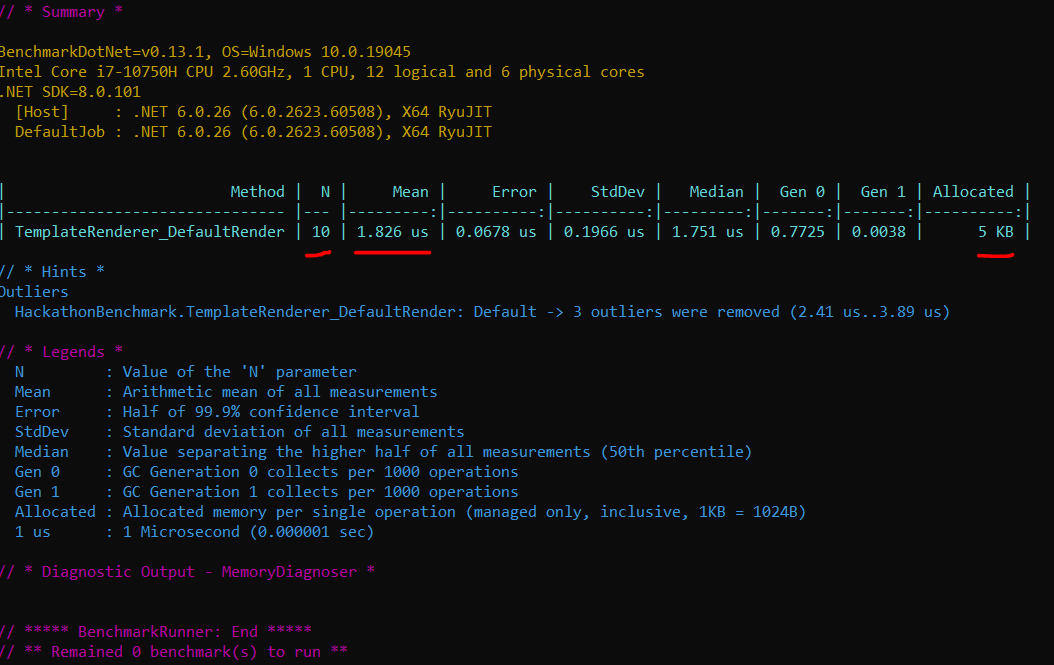
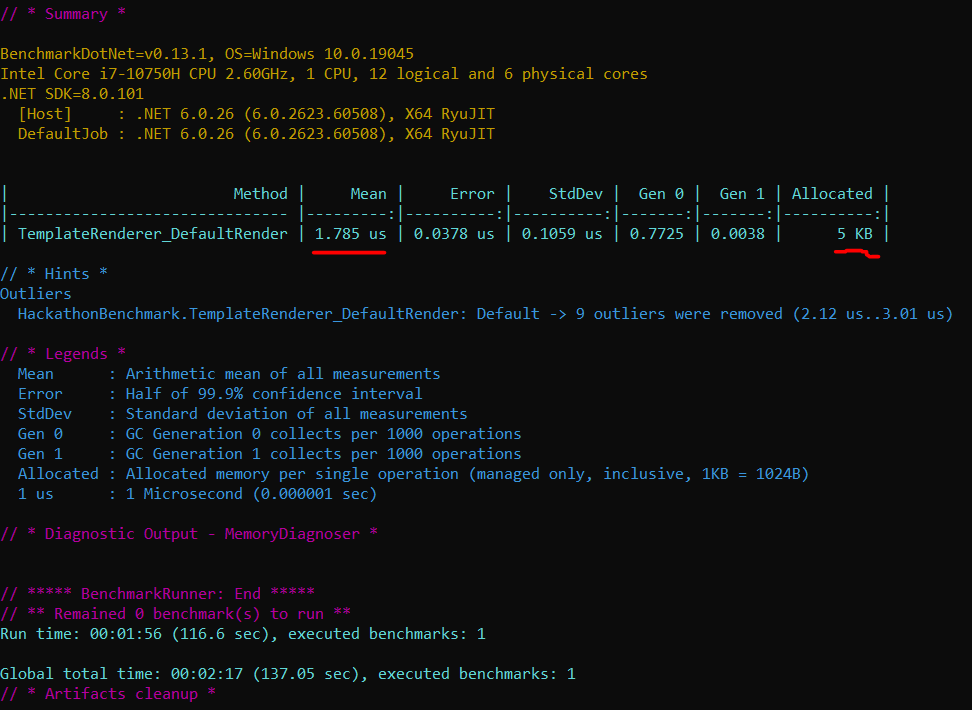
Use correct image and description

diff --git a/Hackathon2024.Benchmark/Program.cs b/Hackathon2024.Benchmark/Program.cs
@@ -18,9 +18,6 @@ namespace Hackathon2024.Benchmark
         private StringReader _template;
         private Data _data;
 
-        [Params(10)]
-        public int N { get; set; }
-
         [GlobalSetup]
         public void Init()
         {

diff --git a/README.md b/README.md
@@ -49,8 +49,8 @@ run it by pressing Ctrl+F5 so it does not attach a debugger. Do not worry if thi
 
 ![Release](./images/Release.PNG)
 
-After the run you should be greeted by a similar overview as shown below where you can clearly see that we did
-N=10 runs for an average runtime of 1.826 us and that our program allocated 5 KB of memory during its runtime.
+After the run you should be greeted by a similar overview as shown below where you can clearly see that we have
+an average runtime of 1.785 µs and that our program allocated 5 KB of memory during its runtime.
 Your job is to get that Mean as low as possible while also taking into account the Allocated memory as much as possible.
 
 ![Benchmark](./images/Benchmark.PNG)
